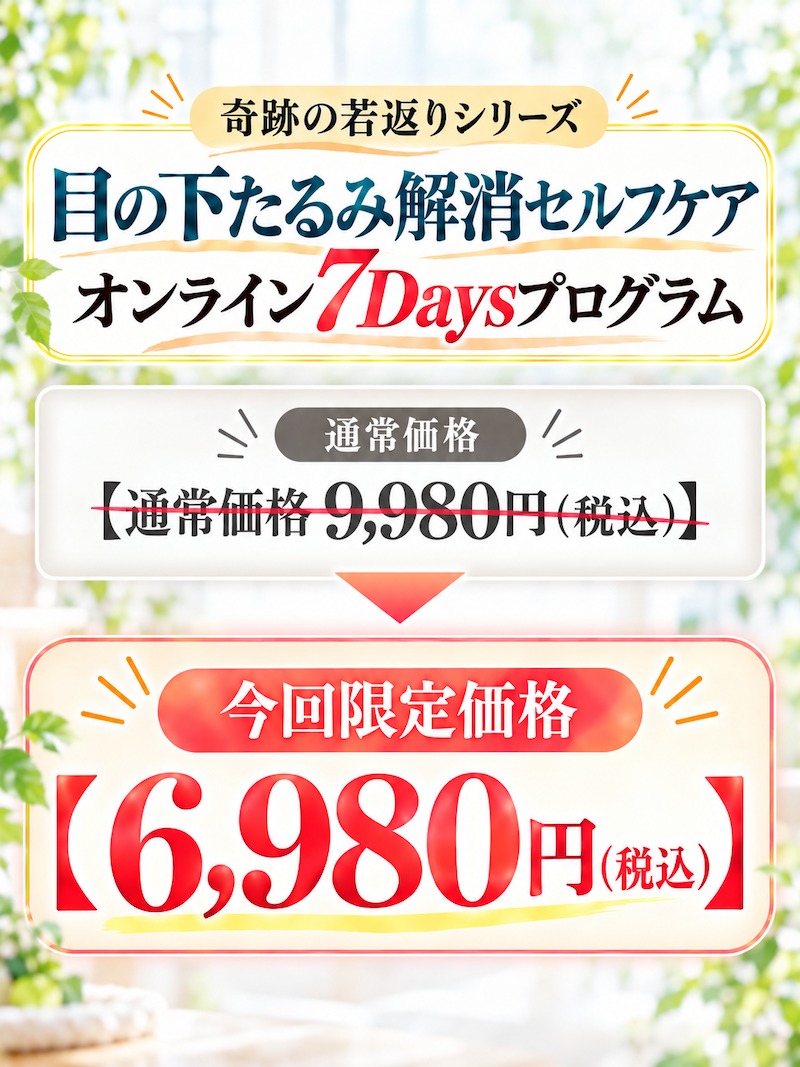
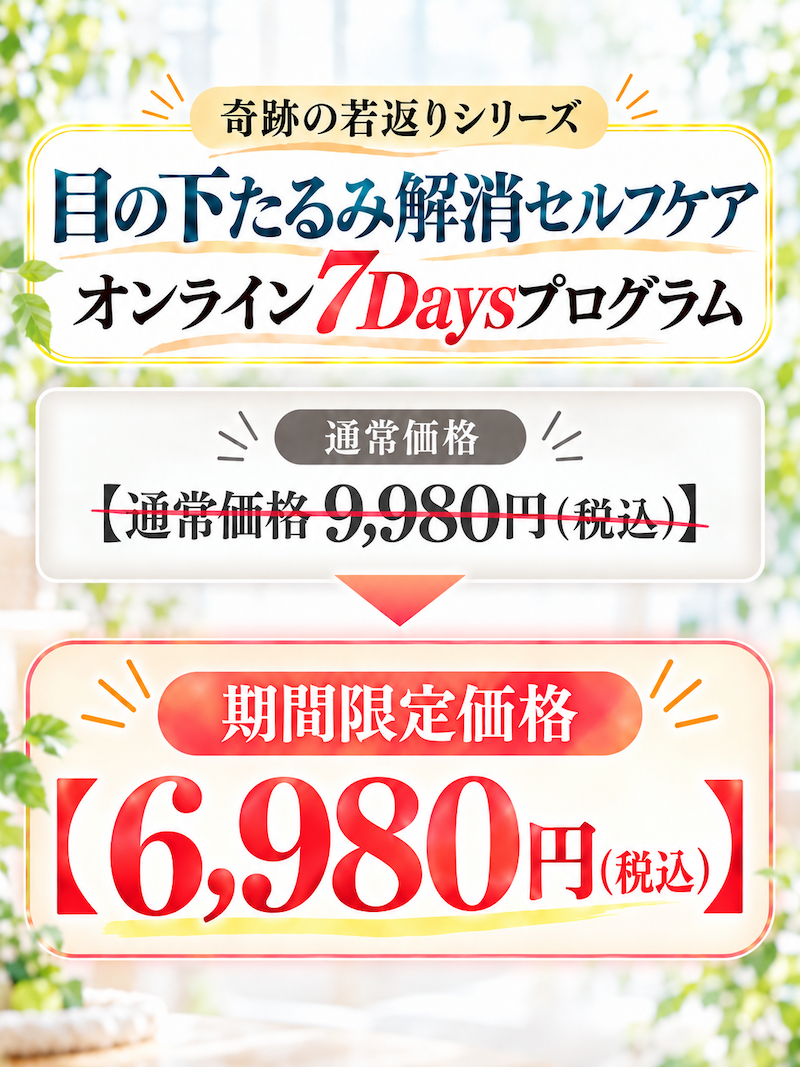
価格画像を、期間限定価格の新しい素材に差し替える。

diff --git a/me-tarumi-sp.html b/me-tarumi-sp.html
@@ -1146,7 +1146,7 @@
           <p class="body-text">そう決めてしまう前に、<br>まず7日間だけ、<br>今までとは違う方法を試してみてください。</p>
           <p class="body-text">目の下ばかりを触るのではなく、<br>首から。<br>あごから。<br>頭から。<br>そして最後に目元へ。<br>身体のつながりを考えながら、<br>順番に整えていきましょう。</p>
         </div>
-        <img class="fade-before-cta" src="assets/me-tarumi/price-card.png" alt="奇跡の若返りシリーズ 目の下たるみ解消セルフケア オンライン7Daysプログラム。通常価格9,980円。今回限定価格6,980円（税込）。" width="800" height="1067" loading="lazy" style="width:calc(100% + 2 * var(--wrap-pad));max-width:none;margin-left:calc(-1 * var(--wrap-pad));" />
+        <img class="fade-before-cta" src="assets/me-tarumi/price-card.png?v=3" alt="奇跡の若返りシリーズ 目の下たるみ解消セルフケア オンライン7Daysプログラム。通常価格9,980円。期間限定価格6,980円（税込）。" width="800" height="1067" loading="lazy" style="width:calc(100% + 2 * var(--wrap-pad));max-width:none;margin-left:calc(-1 * var(--wrap-pad));" />
         <a class="cta-image cta-bridge" href="REPLACE_WITH_CHECKOUT_URL">
           <img src="assets/me-tarumi/cta-price.png" alt="今すぐ7日間プログラムを始める" width="800" height="267" />
         </a>
